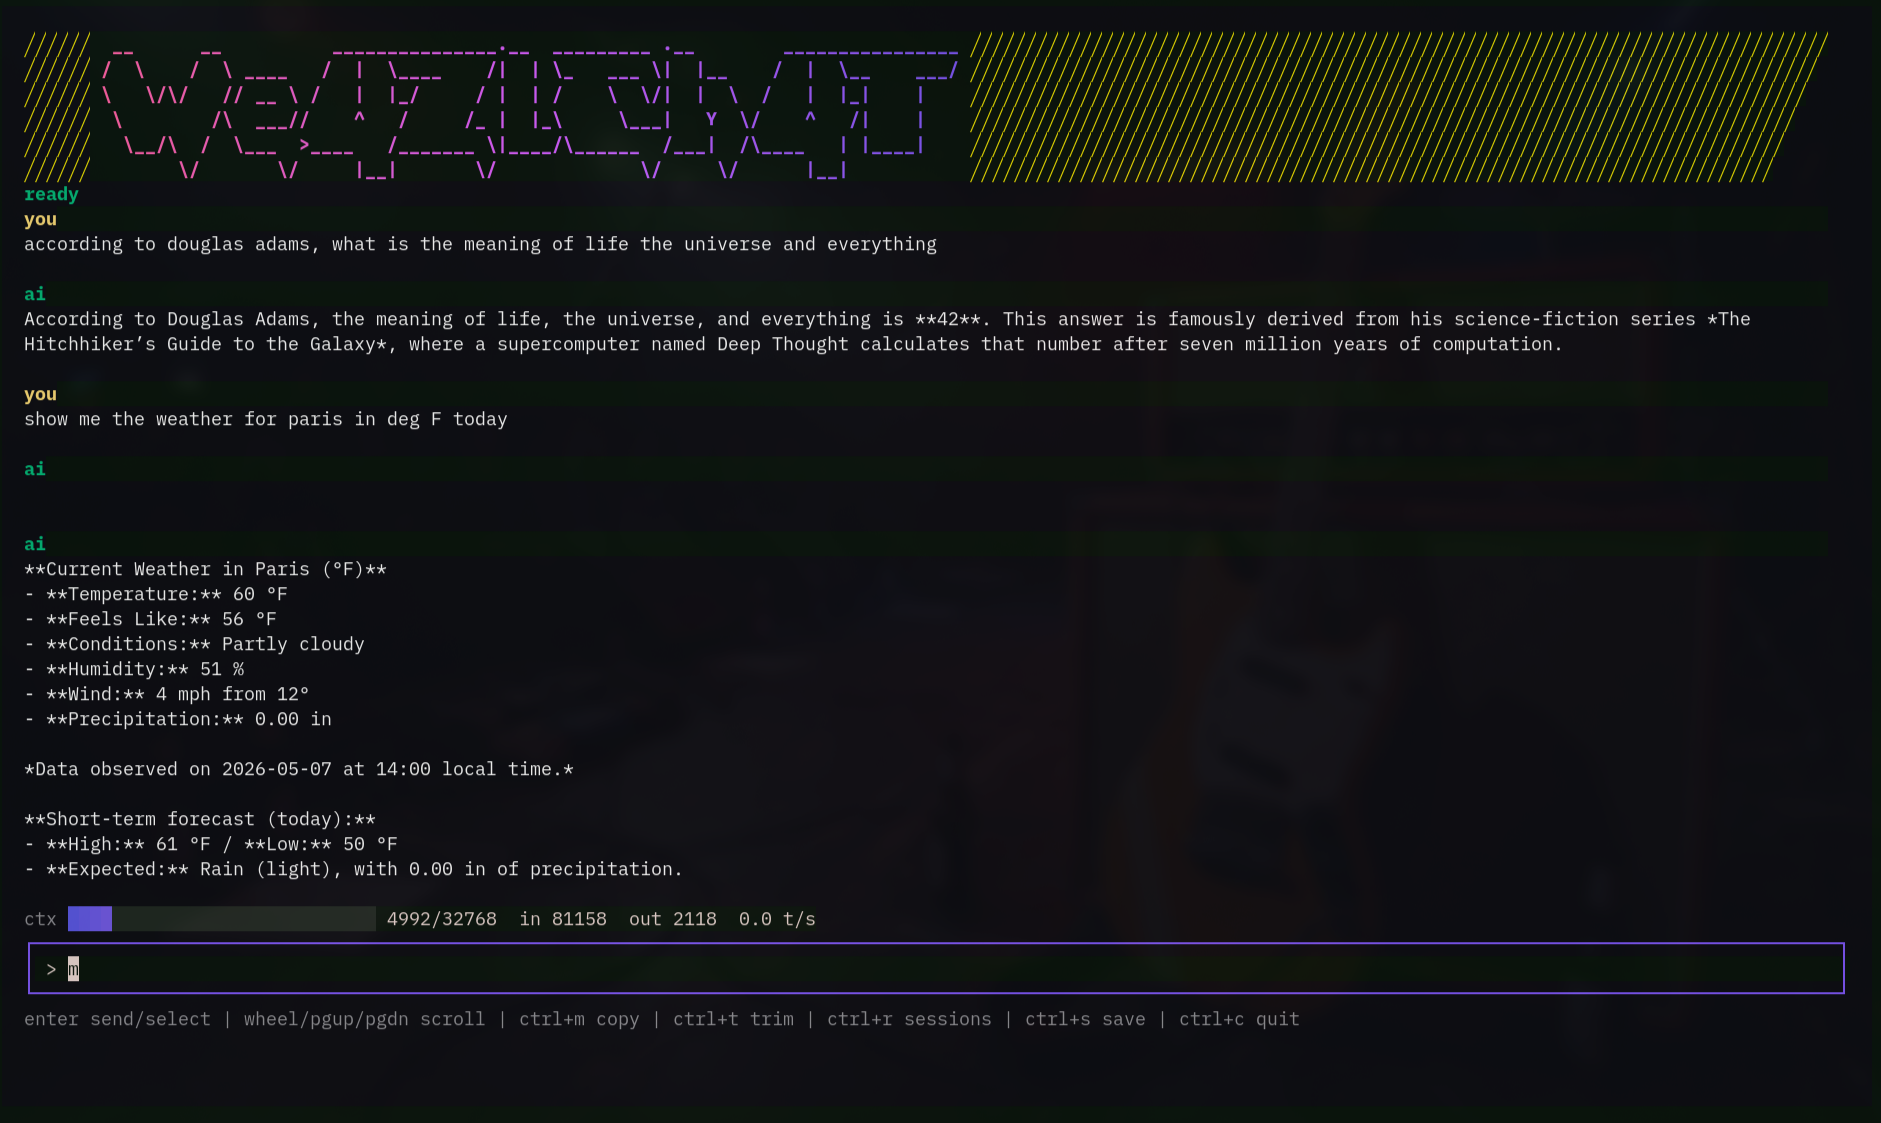
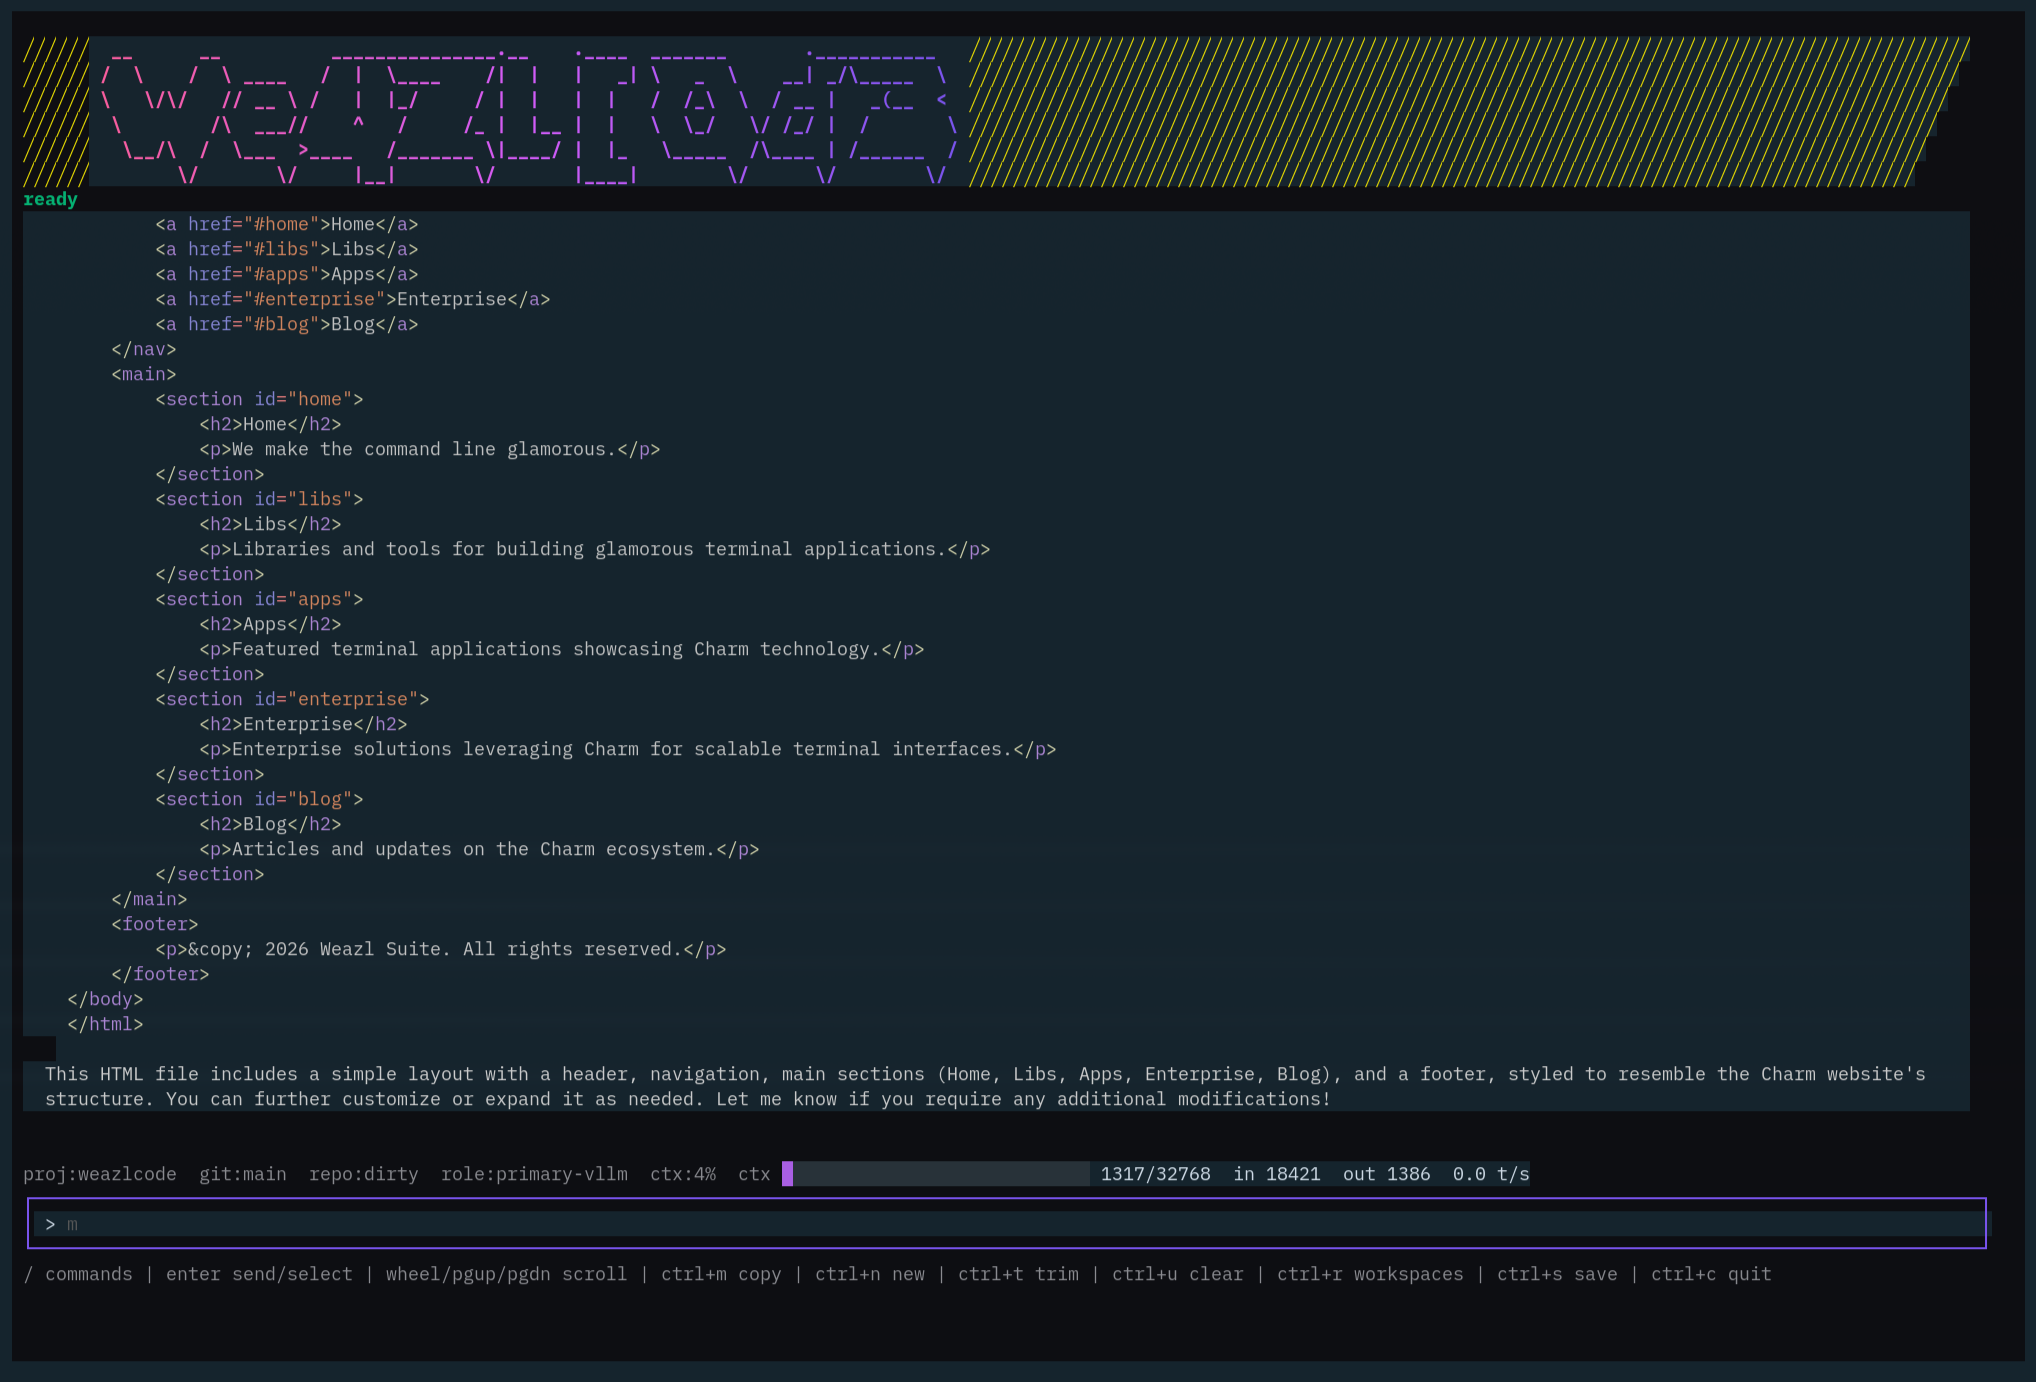
Update README screenshot

diff --git a/README.md b/README.md
@@ -2,7 +2,11 @@
 
 > Work in progress: WeazlCode currently starts from the WeazlChat codebase and is being reshaped into a first-class local-first AI coding IDE.
 
-![WeazlCode screenshot](weazlcode.png)
+<p align="center">
+  <img src="weazlcode.png" alt="WeazlCode terminal IDE screenshot" width="960">
+</p>
+
+<p align="center"><em>WeazlCode running as a terminal IDE with project status, context telemetry, slash commands, and an active coding session.</em></p>
 
 WeazlCode is a private, local-first AI coding TUI built from the WeazlChat foundation. The first cut keeps the straightforward vLLM/Ollama chat workflow intact while the project grows toward a coding platform where frontier models plan and review, and local models handle bounded implementation work.
 
